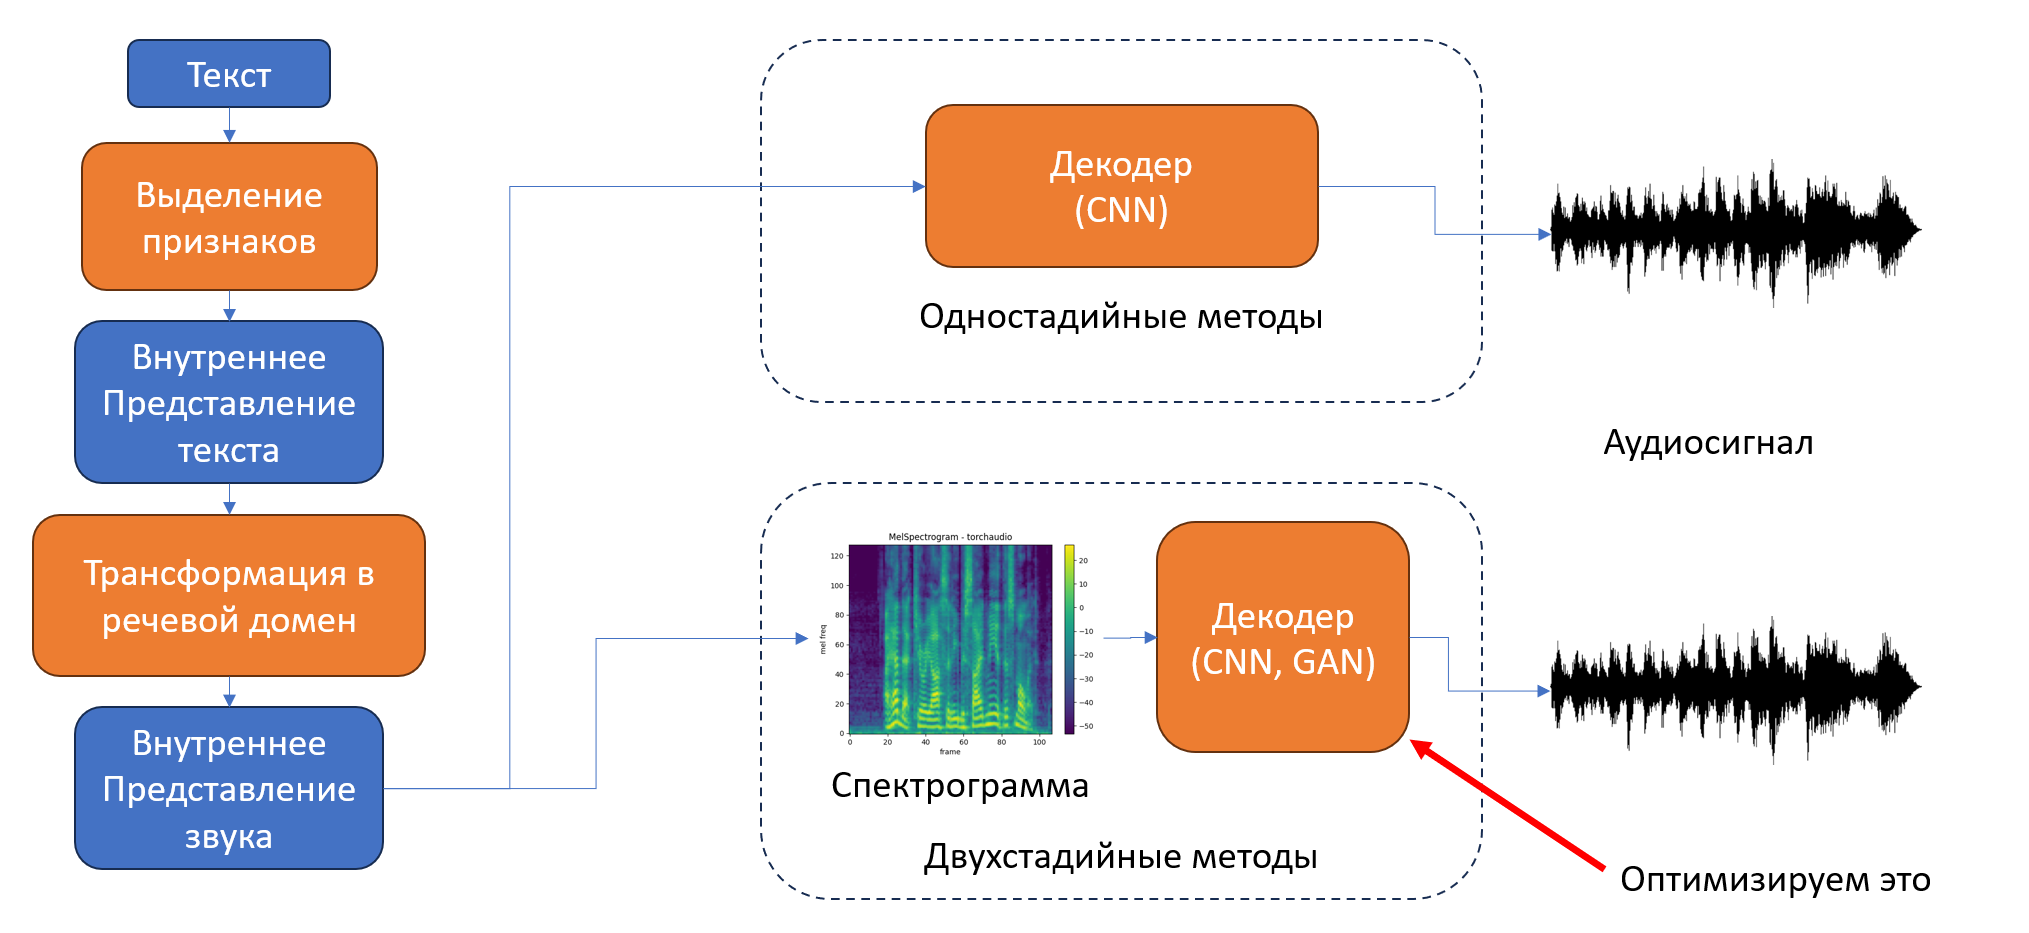
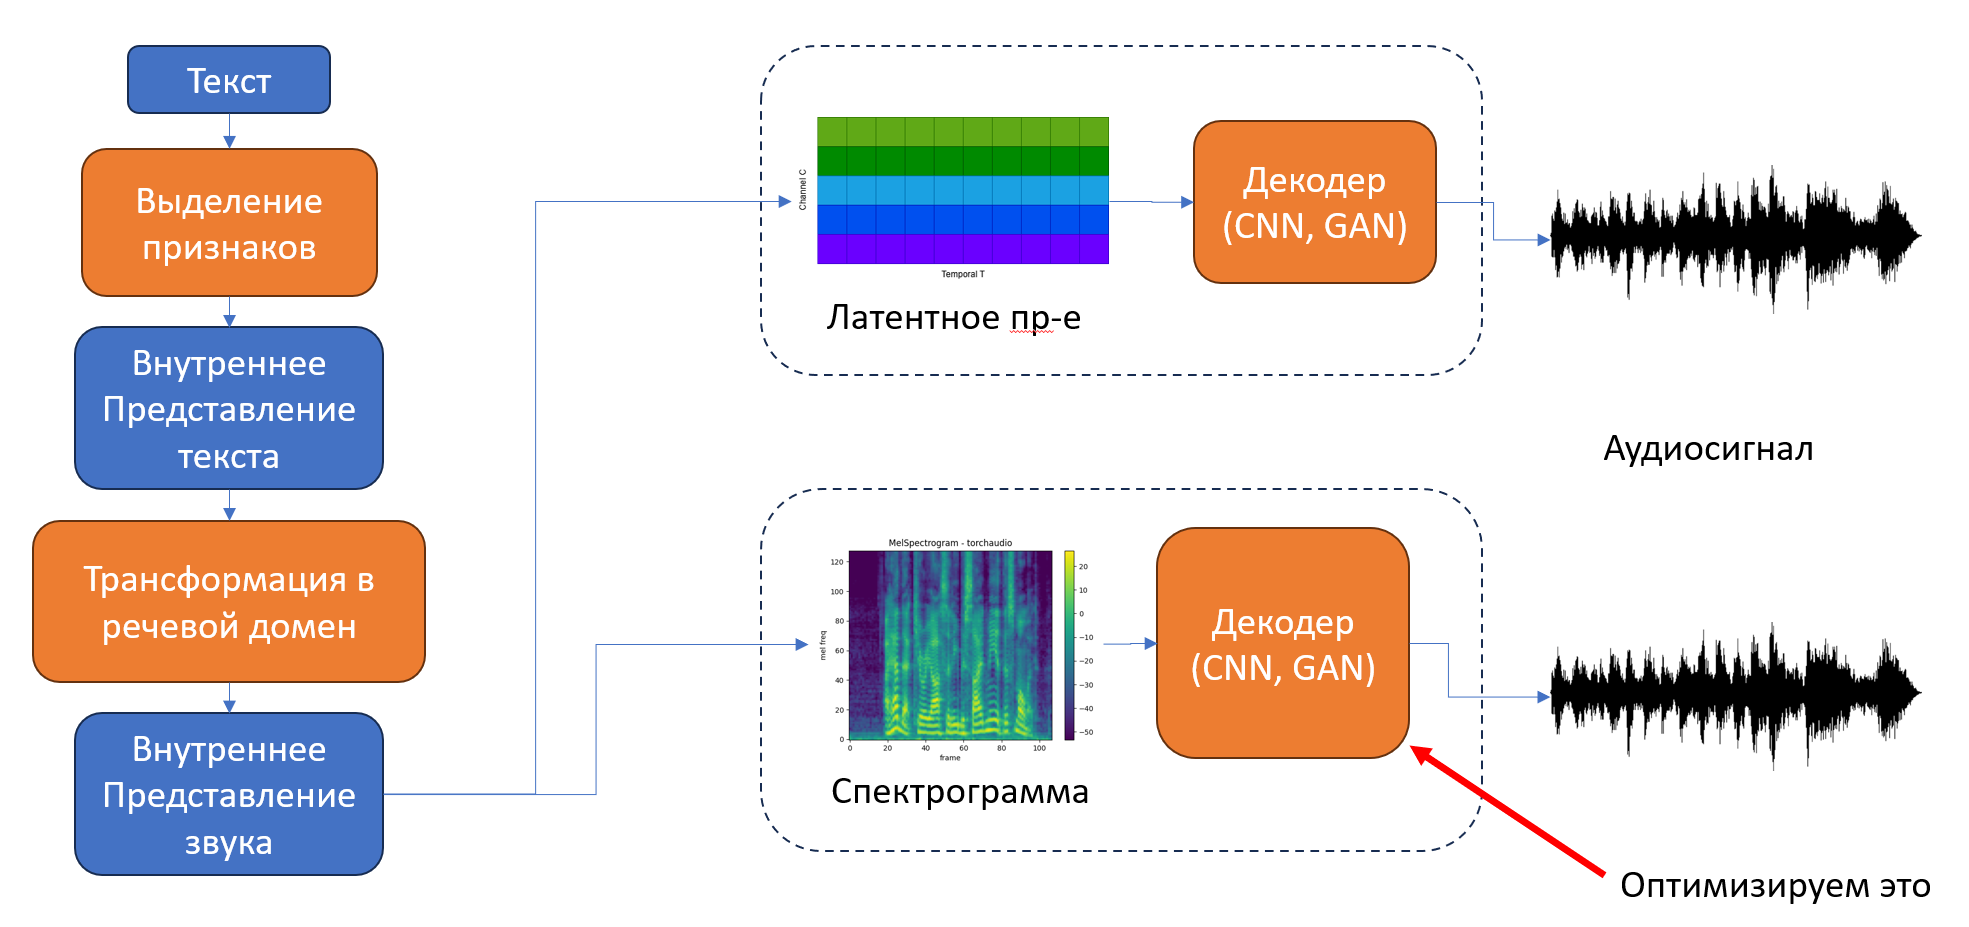
classification by inter representation

diff --git a/diplom-latex/tex/31-chapter-one.tex b/diplom-latex/tex/31-chapter-one.tex
@@ -29,14 +29,14 @@
 \textbf{Спектрограмма} - это двумерный массив данных, полученный с помощью оконного преобразования Фурье. 
 В результате такого преобразования получается разложение сигнала по частотам в коротко-временном окне, изменяющееся во времени.
 По горизонитальной оси отложено время в линейной шкале. По вертикальной оси отложены частоты, в некоторой шкале, не обязательно линейной.
-На практике используются линейная, логарифмическая и mel-шкала.
+На практике используются линейная, логарифмическая и мел-шкала.
 \begin{itemize}
   \item Линейная шкала используется обычно в обратимых алгоритмоах или как разложение для передачи многоканальной информации в одном сигнале.
   \item Логарифмическая шкала используется в музкальных приложениях и редакторах.
-  \item Mel-шкала используется для анализа голоса. Она построена на исследованиях чувствительности человеческого слуха к изменению частоты.
+  \item мел-шкала используется для анализа голоса. Она построена на исследованиях чувствительности человеческого слуха к изменению частоты.
 \end{itemize}
 
-На рисунке \ref{fig:log_spec} изображен пример спектрограммы в логарифмической шкале, а на рисунке \ref{fig:mel_spec} - в mel-шкале.
+На рисунке \ref{fig:log_spec} изображен пример спектрограммы в логарифмической шкале, а на рисунке \ref{fig:mel_spec} - в мел-шкале.
 \begin{figure}[t]
   \centering
   \includegraphics[width=16cm]{figures/log_spec}
@@ -47,27 +47,44 @@
 \begin{figure}[t]
   \centering
   \includegraphics[width=16cm]{figures/mel_spec}
-  \caption{Спектрограмма записи голоса в mel-шкале}
+  \caption{Спектрограмма записи голоса в мел-шкале}
   \label{fig:mel_spec}
 \end{figure}
 
-\subsection{Классификация подходов}
-Рассмотрим основные подходы, использующиеся в современных решениях синтеза речи и их условную классификацию.
+\subsection{Классификация моделей}
+Рассмотрим основные подходы, использующиеся в современных решениях синтеза речи и их классификацию.
 
-По принципу использования спектрограммы методы делятся на двухстадийные и одностадийные (end-to-end):
+По формату промежуточного представления методы делятся на три типа:
+
+\textbf{Генераторы спектрограмм} подразумевают генерацию спектрограммы с последующим преобразованием спектрограммы в звуковой сигнал. Примеры таких моделей:
 \begin{itemize}
-    \item Двухстадийные методы подразумевают генерацию спектрограммы с последующим преобразование спектрограммы в звуковой сигнал.
-    \item одностадийные методы.
+  \item Tacotron 2 (Google, 2017) \cite{Tacotron2} - классическая модель, использующая последовательное преобразование текста в мел-спектрограмму с последующим применением вокодера WaveNet
+  \item FastSpeech 2 (Microsoft, 2019–2020) \cite{FastSpeech2} - Ускоренные и более стабильные версии Tacotron
+  \item Riffusion (2022) \cite{Riffusion} - Диффузионная модель, генерирующая песни и инструментальную музыку в виде спектрограмм с последующим декодированием в звук.
 \end{itemize}
 
-\subsubsection{Двухстадийные методы - генерация спектрограммы}
-Tacotron 2: Классическая модель, использующая последовательное преобразование текста в мел-спектрограмму с последующим применением вокодера
-FastSpeech 2: Улучшенная версия FastSpeech, обеспечивающая высококачественный синтез речи с контролем над длительностью, высотой тона и энергией
-\subsubsection{Одностадийные методы - Wav2Vec}
+\textbf{Генераторы в латентное представление} с последующим декодированием в звук с помощью нейронного декодера подразумевают 
+генерацию латентного признакого представления, чем-то отдаленно схожего со спектрограммой, но сформированного отдельно обученным автоэнкодером.
+
+\begin{itemize} 
+  \item NaturalSpeech 2 (Microsoft, 2023) \cite{NaturalSpeech2} - Современная модель на основе латентных диффузий для синтеза речи и пения
+  \item Kokoro-TTS (2025) \cite{kokoro}- это современная, компактная и высокоэффективная модель синтеза речи, разработанная для генерации естественного звучания при минимальных вычислительных затратах
+\end{itemize}
+
+\textbf{Генераторы токенов для нейронного кодека} схожи по принципу работы с генеративными трансформерами - основная генеративная модель создает последовательность токенов, 
+которая потом преобразуется в звук с помощью нейросетевого кодека.
+
+Пример такого кодека - EnCodec (Meta AI, 2022) \cite{encodec}. Он предназначен для сжатия и восстановления аудиосигналов, кодирует звук в дискретное латентное пространство (токены).
+
+\begin{itemize} 
+  \item Bark (Suno AI) \cite{SunoAI_Bark_2023} - Трансформерная генеративная модель, синтезирующая музыку и песни по заданному тексту и указаниям.
+  \item Voicebox (2023, Meta AI) \cite{le2023voicebox} - Модель, способная генерировать, изменять и редактировать речь в различных стилях.
+\end{itemize}
+
+
 \subsubsection{Трансформерные генераторы}
 \subsubsection{Диффузионные генераторы}
 \subsubsection{Мультимодальные LLM-генераторы}
-\subsubsection{Полносверточные сети}
 
 
 

diff --git a/diplom-latex/tex/22-intro.tex b/diplom-latex/tex/22-intro.tex
@@ -10,7 +10,7 @@
 Также низкое качество синтезированной речи делает затруднительным ее применение в творческих сферах, таких как музыка, фильмы и игры.
 
 В настоящее время технологии синтеза речи сильно продвинулись. Голосовые ассистенты стали умнее и их речь стала более естственной. 
-Появились нейросети, способные генерировать песни по заданному тексту или мотиву (Suno \cite{SunoAI}). 
+Появились нейросети, способные генерировать песни по заданному тексту или мотиву (Suno \cite{SunoAI_Bark_2023}, Riffusion \cite{Riffusion}). 
 Но следы того, что музыка или речь создана роботом, все еще сохраняются.
 Кроме того, использование моделей ИИ для генерации звука требует использования вычислительной мощности, которая может быть недоступна некоторым мобильным устройствам.
 Также существуют проблемы с вычислительной сложностью систем генерации речи в реальном времени (синхронный перевод, замена голоса). 
